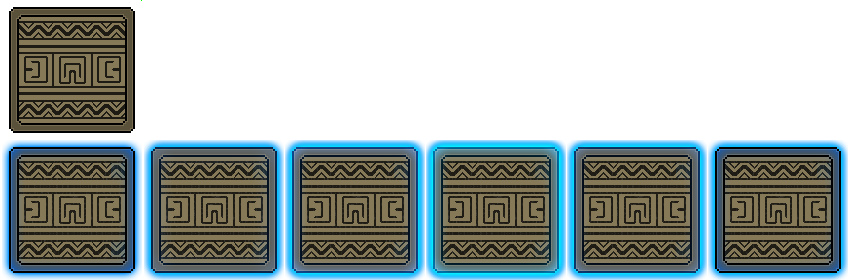
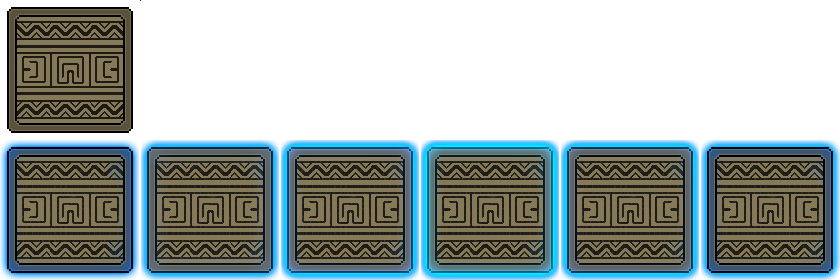
stone ani

diff --git a/The Seekers Way 0.2/Stone.cpp b/The Seekers Way 0.2/Stone.cpp
@@ -5,8 +5,8 @@
 static const float WIDTH = 128;
 static const float HEIGHT = 128;
 
-static const float SPRITEWIDTH = 141;
-static const float SPRITEHEIGHT = 141;
+static const float SPRITEWIDTH = 140;
+static const float SPRITEHEIGHT = 140;
 
 Stone::Stone(sf::Vector2f Position):
 	mMovementSpeed(0,0),
